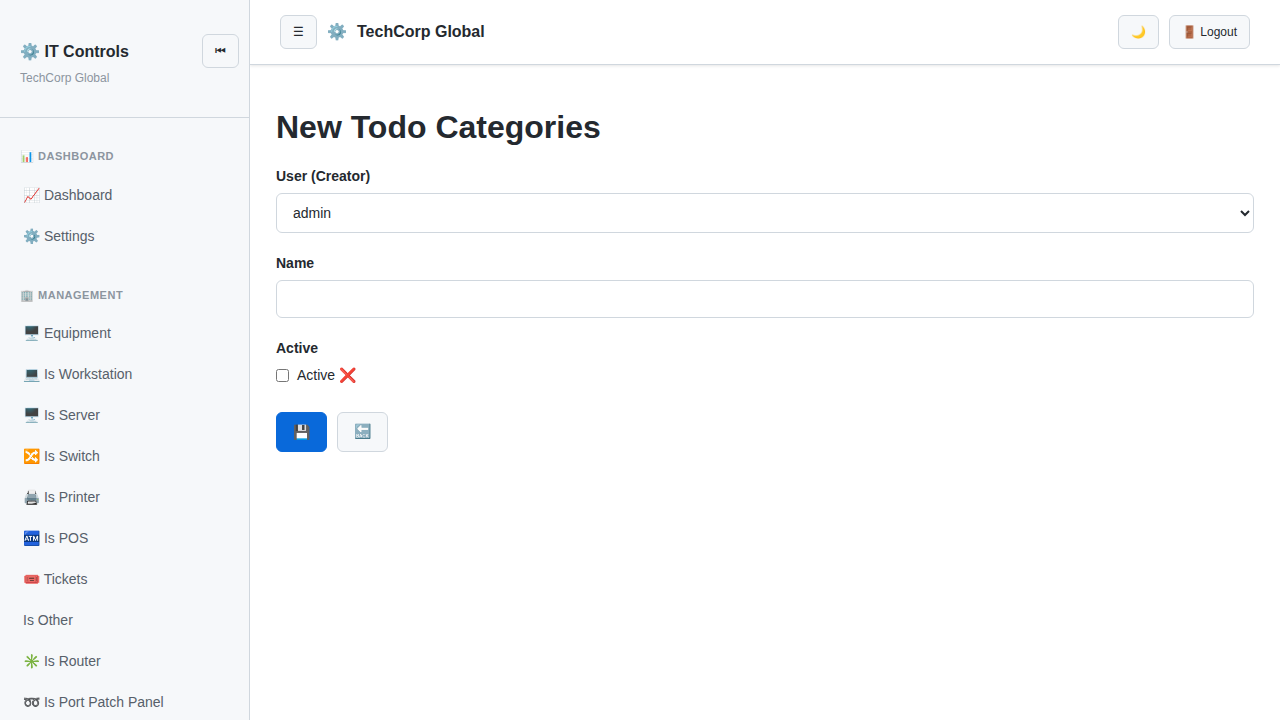
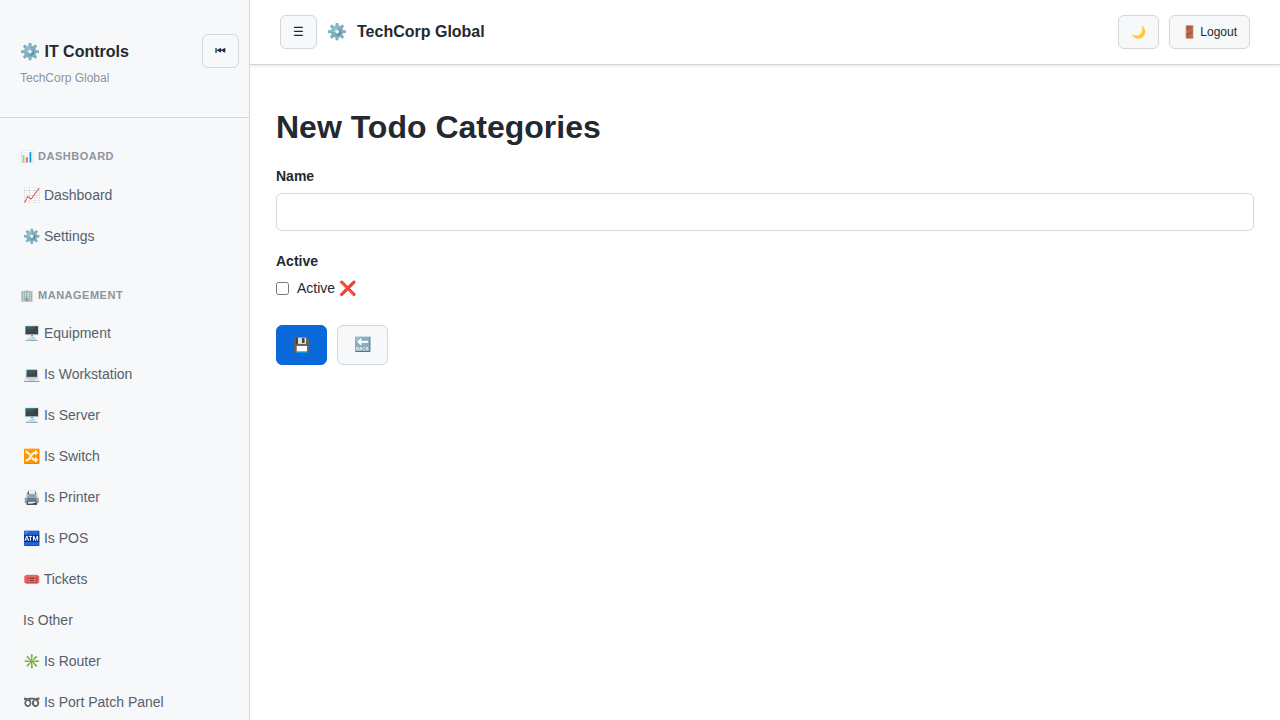
Enhance todo_categories module: auto-detect user and improve UI labels

Changed region(s): [[0.2188, 0.3361, 0.3125, 0.6417], [0.2188, 0.2139, 0.2812, 0.3056]]

diff --git a/login_page.html b/login_page.html
@@ -1,0 +1,63 @@
+<!DOCTYPE html>
+<html lang="en">
+<head>
+    <meta charset="UTF-8">
+    <meta name="viewport" content="width=device-width, initial-scale=1.0">
+    <title>Login - ⚙️ IT Controls</title>
+        <style>
+        :root { --accent: #0969da; --bg: #ffffff; --text: #24292f; --muted: #666; }
+        [data-theme="dark"] { --accent: #58a6ff; --bg: #0d1117; --text: #c9d1d9; --muted: #8b949e; }
+        * { margin: 0; padding: 0; box-sizing: border-box; }
+        body {
+            font-family: -apple-system, BlinkMacSystemFont, 'Segoe UI', Roboto, sans-serif;
+            display: flex; justify-content: center; align-items: center; min-height: 100vh;
+            background: linear-gradient(135deg, #667eea 0%, #764ba2 100%); padding: 20px;
+        }
+        .container { background: var(--bg); padding: 40px; border-radius: 12px; width: 100%; max-width: 500px; box-shadow: 0 20px 60px rgba(0,0,0,0.3); }
+        .logo { text-align: center; margin-bottom: 30px; }
+        .logo h1 { color: var(--accent); font-size: 28px; }
+        .logo p { color: var(--muted); font-size: 14px; }
+        label { display: block; margin-bottom: 8px; font-weight: 600; color: var(--text); }
+        input { width: 100%; padding: 12px; border: 2px solid #ddd; border-radius: 8px; font-size: 14px; background: var(--bg); color: var(--text); margin-bottom: 16px; }
+        button { width: 100%; padding: 12px; background: linear-gradient(135deg, #667eea 0%, #764ba2 100%); color: #fff; border: none; border-radius: 8px; font-weight: 600; cursor: pointer; }
+        .links { margin-top: 14px; text-align: center; }
+        .links a { color: var(--accent); text-decoration: none; }
+        .theme-btn { position: absolute; top: 20px; right: 20px; background: var(--bg); border: none; width: 50px; height: 50px; border-radius: 50%; cursor: pointer; font-size: 24px; box-shadow: 0 2px 8px rgba(0,0,0,0.1); }
+    </style>
+</head>
+<body>
+    <button class="theme-btn" onclick="toggleTheme()">🌙</button>
+    <div class="container">
+        <div class="logo">
+            <h1>⚙️ IT Controls</h1>
+            <p>Sign in to continue</p>
+        </div>
+
+                <form method="POST">
[1 lines of base64/hex data omitted]
+            <label for="email">Email or Username</label>
+            <input id="email" type="text" name="email" placeholder="Email or username" required>
+            <label for="password">Password</label>
+            <input id="password" type="password" name="password" placeholder="Password" required>
+            <button type="submit">Login</button>
+        </form>
+        <div class="links">
+            <a href="forgot-password.php">Forgot Password?</a> ·
+            <a href="register.php">Register with Invite</a>
+        </div>
+    </div>
+    <script>
+        /**
+         * Toggle light/dark theme and persist choice to localStorage
+         */
+        function toggleTheme() {
+            const theme = document.documentElement.getAttribute('data-theme');
+            document.documentElement.setAttribute('data-theme', theme === 'dark' ? 'light' : 'dark');
+            localStorage.setItem('theme', document.documentElement.getAttribute('data-theme'));
+        }
+
+        // Load initial theme from storage
+        document.documentElement.setAttribute('data-theme', localStorage.getItem('theme') || 'light');
+    </script>
+</body>
+</html>

diff --git a/verify_todo_categories.py b/verify_todo_categories.py
@@ -1,0 +1,43 @@
+import asyncio
+from playwright.async_api import async_playwright
+import os
+
+async def run():
+    async with async_playwright() as p:
+        browser = await p.chromium.launch()
+        context = await browser.new_context()
+
+        # Get session ID from bypass_login
+        import subprocess
+        output = subprocess.check_output(['php', 'scripts/bypass_login.php', '--user', 'Admin', '--company', '1']).decode()
+        sess_id = [line for line in output.split('\n') if 'Session ID:' in line][0].split(': ')[1].strip()
+
+        await context.add_cookies([
+            {'name': 'PHPSESSID', 'value': sess_id, 'domain': 'localhost', 'path': '/'}
+        ])
+
+        page = await context.new_page()
+
+        # 1. Check List View
+        await page.goto('http://localhost:8080/modules/todo_categories/index.php')
+        await page.screenshot(path='todo_categories_list.png')
+        print("Captured todo_categories_list.png")
+
+        # 2. Check Create Form
+        await page.goto('http://localhost:8080/modules/todo_categories/create.php')
+        await page.screenshot(path='todo_categories_create.png')
+        print("Captured todo_categories_create.png")
+
+        # Check if Category from User is hidden
+        is_hidden = await page.is_hidden('text="Category from User"')
+        # Note: if it's a hidden input, the label shouldn't even be there because I added 'continue' in the loop
+        label_exists = await page.query_selector('text="Category from User"')
+        print(f"Label 'Category from User' exists in create form: {label_exists is not None}")
+
+        # 3. Check View Page (if there's any record)
+        # For now just screenshots are good to see labels
+
+        await browser.close()
+
+if __name__ == "__main__":
+    asyncio.run(run())

diff --git a/modules/todo_categories/index.php b/modules/todo_categories/index.php
@@ -131,6 +131,7 @@ function cr_humanize_field($field) {
         'opera_username' => 'OPERA Username',
         'onq_ri' => 'OnQ R&I',
         'hu_the_lobby' => 'HU & The Lobby',
+        'cat_from_user_id' => 'Category from User',
     ];
 
     if (isset($map[$label])) {
@@ -163,6 +164,25 @@ function cr_render_cell_value($table, $field, $value) {
         $isActive = ((int)$value === 1);
         return '<span class="badge ' . ($isActive ? 'badge-success' : 'badge-danger') . '">' . ($isActive ? 'Active' : 'Inactive') . '</span>';
     }
+
+    if ($field === 'cat_from_user_id' && $value > 0) {
+        $conn = $GLOBALS['conn'] ?? null;
+        if ($conn) {
+            $stmt = mysqli_prepare($conn, 'SELECT username FROM users WHERE id = ?');
+            if ($stmt) {
+                mysqli_stmt_bind_param($stmt, 'i', $value);
+                mysqli_stmt_execute($stmt);
+                mysqli_stmt_bind_result($stmt, $username);
+                if (mysqli_stmt_fetch($stmt)) {
+                    mysqli_stmt_close($stmt);
+                    return sanitize($username);
+                }
+                mysqli_stmt_close($stmt);
+            }
+        }
+    }
+
+
 
     if (($GLOBALS['crud_table'] ?? '') === 'employees') {
         $employeeBoolFields = ['network_access', 'micros_emc', 'opera_username', 'micros_card', 'pms_id', 'synergy_mms', 'hu_the_lobby', 'navision', 'onq_ri', 'birchstreet', 'delphi', 'omina', 'vingcard_system', 'digital_rev', 'office_key_card'];
@@ -896,6 +916,14 @@ if (!in_array($newButtonPosition, ['left', 'right', 'left_right'], true)) {
                 <form method="POST" class="form-grid" style="max-width:980px;">
                     <input type="hidden" name="csrf_token" value="<?php echo sanitize($csrfToken); ?>">
                     <?php foreach ($fieldColumns as $col): $name = $col['Field'];
+                        if ($name === 'cat_from_user_id') {
+                            $val = (string)($data[$name] ?? '');
+                            if ($crud_action === 'create') {
+                                $val = (string)($_SESSION['user_id'] ?? '');
+                            }
+                            echo '<input type="hidden" name="cat_from_user_id" value="' . sanitize($val) . '">';
+                            continue;
+                        }
                         $isTinyInt = str_starts_with($col['Type'], 'tinyint(1)');
                         $isDate = str_starts_with($col['Type'], 'date');
                         $isDateTime = str_starts_with($col['Type'], 'datetime');

diff --git a/modules/todo_categories/create.php b/modules/todo_categories/create.php
@@ -108,7 +108,7 @@ function cr_humanize_field($field) {
         'opera_username' => 'OPERA Username',
         'onq_ri' => 'OnQ R&I',
         'hu_the_lobby' => 'HU & The Lobby',
-        'cat_from_user_id' => 'User (Creator)',
+        'cat_from_user_id' => 'Category from User',
     ];
 
     if (isset($map[$label])) {
@@ -134,6 +134,23 @@ function cr_is_hidden_employee_field($field) {
 }
 
 function cr_render_cell_value($table, $field, $value) {
+    if ($field === 'cat_from_user_id' && $value > 0) {
+        $conn = $GLOBALS['conn'] ?? null;
+        if ($conn) {
+            $stmt = mysqli_prepare($conn, 'SELECT username FROM users WHERE id = ?');
+            if ($stmt) {
+                mysqli_stmt_bind_param($stmt, 'i', $value);
+                mysqli_stmt_execute($stmt);
+                mysqli_stmt_bind_result($stmt, $username);
+                if (mysqli_stmt_fetch($stmt)) {
+                    mysqli_stmt_close($stmt);
+                    return sanitize($username);
+                }
+                mysqli_stmt_close($stmt);
+            }
+        }
+    }
+
     if (($GLOBALS['crud_table'] ?? '') === 'employees') {
         $employeeBoolFields = ['active', 'network_access', 'micros_emc', 'opera_username', 'micros_card', 'pms_id', 'synergy_mms', 'hu_the_lobby', 'navision', 'onq_ri', 'birchstreet', 'delphi', 'omina', 'vingcard_system', 'digital_rev', 'office_key_card'];
         if (in_array($field, $employeeBoolFields, true)) {
@@ -534,6 +551,14 @@ $rows = mysqli_query($conn, 'SELECT * FROM ' . cr_escape_identifier($crud_table)
                 <form method="POST" class="form-grid" style="max-width:980px;">
                     <input type="hidden" name="csrf_token" value="<?php echo sanitize($csrfToken); ?>">
                     <?php foreach ($fieldColumns as $col): $name = $col['Field'];
+                        if ($name === 'cat_from_user_id') {
+                            $val = (string)($data[$name] ?? '');
+                            if ($crud_action === 'create') {
+                                $val = (string)($_SESSION['user_id'] ?? '');
+                            }
+                            echo '<input type="hidden" name="cat_from_user_id" value="' . sanitize($val) . '">';
+                            continue;
+                        }
                         $isTinyInt = str_starts_with($col['Type'], 'tinyint(1)');
                         $isDate = str_starts_with($col['Type'], 'date');
                         $isDateTime = str_starts_with($col['Type'], 'datetime');

diff --git a/modules/todo_categories/edit.php b/modules/todo_categories/edit.php
@@ -108,7 +108,7 @@ function cr_humanize_field($field) {
         'opera_username' => 'OPERA Username',
         'onq_ri' => 'OnQ R&I',
         'hu_the_lobby' => 'HU & The Lobby',
-        'cat_from_user_id' => 'User (Creator)',
+        'cat_from_user_id' => 'Category from User',
     ];
 
     if (isset($map[$label])) {
@@ -134,6 +134,23 @@ function cr_is_hidden_employee_field($field) {
 }
 
 function cr_render_cell_value($table, $field, $value) {
+    if ($field === 'cat_from_user_id' && $value > 0) {
+        $conn = $GLOBALS['conn'] ?? null;
+        if ($conn) {
+            $stmt = mysqli_prepare($conn, 'SELECT username FROM users WHERE id = ?');
+            if ($stmt) {
+                mysqli_stmt_bind_param($stmt, 'i', $value);
+                mysqli_stmt_execute($stmt);
+                mysqli_stmt_bind_result($stmt, $username);
+                if (mysqli_stmt_fetch($stmt)) {
+                    mysqli_stmt_close($stmt);
+                    return sanitize($username);
+                }
+                mysqli_stmt_close($stmt);
+            }
+        }
+    }
+
     if (($GLOBALS['crud_table'] ?? '') === 'employees') {
         $employeeBoolFields = ['active', 'network_access', 'micros_emc', 'opera_username', 'micros_card', 'pms_id', 'synergy_mms', 'hu_the_lobby', 'navision', 'onq_ri', 'birchstreet', 'delphi', 'omina', 'vingcard_system', 'digital_rev', 'office_key_card'];
         if (in_array($field, $employeeBoolFields, true)) {
@@ -531,6 +548,14 @@ $rows = mysqli_query($conn, 'SELECT * FROM ' . cr_escape_identifier($crud_table)
                 <form method="POST" class="form-grid" style="max-width:980px;">
                     <input type="hidden" name="csrf_token" value="<?php echo sanitize($csrfToken); ?>">
                     <?php foreach ($fieldColumns as $col): $name = $col['Field'];
+                        if ($name === 'cat_from_user_id') {
+                            $val = (string)($data[$name] ?? '');
+                            if ($crud_action === 'create') {
+                                $val = (string)($_SESSION['user_id'] ?? '');
+                            }
+                            echo '<input type="hidden" name="cat_from_user_id" value="' . sanitize($val) . '">';
+                            continue;
+                        }
                         $isTinyInt = str_starts_with($col['Type'], 'tinyint(1)');
                         $isDate = str_starts_with($col['Type'], 'date');
                         $isDateTime = str_starts_with($col['Type'], 'datetime');

diff --git a/modules/todo_categories/delete.php b/modules/todo_categories/delete.php
@@ -108,6 +108,7 @@ function cr_humanize_field($field) {
         'opera_username' => 'OPERA Username',
         'onq_ri' => 'OnQ R&I',
         'hu_the_lobby' => 'HU & The Lobby',
+        'cat_from_user_id' => 'Category from User',
     ];
 
     if (isset($map[$label])) {
@@ -133,6 +134,23 @@ function cr_is_hidden_employee_field($field) {
 }
 
 function cr_render_cell_value($table, $field, $value) {
+    if ($field === 'cat_from_user_id' && $value > 0) {
+        $conn = $GLOBALS['conn'] ?? null;
+        if ($conn) {
+            $stmt = mysqli_prepare($conn, 'SELECT username FROM users WHERE id = ?');
+            if ($stmt) {
+                mysqli_stmt_bind_param($stmt, 'i', $value);
+                mysqli_stmt_execute($stmt);
+                mysqli_stmt_bind_result($stmt, $username);
+                if (mysqli_stmt_fetch($stmt)) {
+                    mysqli_stmt_close($stmt);
+                    return sanitize($username);
+                }
+                mysqli_stmt_close($stmt);
+            }
+        }
+    }
+
     if (($GLOBALS['crud_table'] ?? '') === 'employees') {
         $employeeBoolFields = ['active', 'network_access', 'micros_emc', 'opera_username', 'micros_card', 'pms_id', 'synergy_mms', 'hu_the_lobby', 'navision', 'onq_ri', 'birchstreet', 'delphi', 'omina', 'vingcard_system', 'digital_rev', 'office_key_card'];
         if (in_array($field, $employeeBoolFields, true)) {
@@ -583,6 +601,14 @@ $rows = mysqli_query($conn, 'SELECT * FROM ' . cr_escape_identifier($crud_table)
                 <form method="POST" class="form-grid" style="max-width:980px;">
                     <input type="hidden" name="csrf_token" value="<?php echo sanitize($csrfToken); ?>">
                     <?php foreach ($fieldColumns as $col): $name = $col['Field'];
+                        if ($name === 'cat_from_user_id') {
+                            $val = (string)($data[$name] ?? '');
+                            if ($crud_action === 'create') {
+                                $val = (string)($_SESSION['user_id'] ?? '');
+                            }
+                            echo '<input type="hidden" name="cat_from_user_id" value="' . sanitize($val) . '">';
+                            continue;
+                        }
                         $isTinyInt = str_starts_with($col['Type'], 'tinyint(1)');
                         $isDate = str_starts_with($col['Type'], 'date');
                         $isDateTime = str_starts_with($col['Type'], 'datetime');

diff --git a/modules/todo_categories/list_all.php b/modules/todo_categories/list_all.php
@@ -108,6 +108,7 @@ function cr_humanize_field($field) {
         'opera_username' => 'OPERA Username',
         'onq_ri' => 'OnQ R&I',
         'hu_the_lobby' => 'HU & The Lobby',
+        'cat_from_user_id' => 'Category from User',
     ];
 
     if (isset($map[$label])) {
@@ -133,6 +134,23 @@ function cr_is_hidden_employee_field($field) {
 }
 
 function cr_render_cell_value($table, $field, $value) {
+    if ($field === 'cat_from_user_id' && $value > 0) {
+        $conn = $GLOBALS['conn'] ?? null;
+        if ($conn) {
+            $stmt = mysqli_prepare($conn, 'SELECT username FROM users WHERE id = ?');
+            if ($stmt) {
+                mysqli_stmt_bind_param($stmt, 'i', $value);
+                mysqli_stmt_execute($stmt);
+                mysqli_stmt_bind_result($stmt, $username);
+                if (mysqli_stmt_fetch($stmt)) {
+                    mysqli_stmt_close($stmt);
+                    return sanitize($username);
+                }
+                mysqli_stmt_close($stmt);
+            }
+        }
+    }
+
     if (($GLOBALS['crud_table'] ?? '') === 'employees') {
         $employeeBoolFields = ['active', 'network_access', 'micros_emc', 'opera_username', 'micros_card', 'pms_id', 'synergy_mms', 'hu_the_lobby', 'navision', 'onq_ri', 'birchstreet', 'delphi', 'omina', 'vingcard_system', 'digital_rev', 'office_key_card'];
         if (in_array($field, $employeeBoolFields, true)) {
@@ -530,6 +548,14 @@ $rows = mysqli_query($conn, 'SELECT * FROM ' . cr_escape_identifier($crud_table)
                 <form method="POST" class="form-grid" style="max-width:980px;">
                     <input type="hidden" name="csrf_token" value="<?php echo sanitize($csrfToken); ?>">
                     <?php foreach ($fieldColumns as $col): $name = $col['Field'];
+                        if ($name === 'cat_from_user_id') {
+                            $val = (string)($data[$name] ?? '');
+                            if ($crud_action === 'create') {
+                                $val = (string)($_SESSION['user_id'] ?? '');
+                            }
+                            echo '<input type="hidden" name="cat_from_user_id" value="' . sanitize($val) . '">';
+                            continue;
+                        }
                         $isTinyInt = str_starts_with($col['Type'], 'tinyint(1)');
                         $isDate = str_starts_with($col['Type'], 'date');
                         $isDateTime = str_starts_with($col['Type'], 'datetime');

diff --git a/modules/todo_categories/view.php b/modules/todo_categories/view.php
@@ -108,6 +108,7 @@ function cr_humanize_field($field) {
         'opera_username' => 'OPERA Username',
         'onq_ri' => 'OnQ R&I',
         'hu_the_lobby' => 'HU & The Lobby',
+        'cat_from_user_id' => 'Category from User',
     ];
 
     if (isset($map[$label])) {
@@ -133,6 +134,23 @@ function cr_is_hidden_employee_field($field) {
 }
 
 function cr_render_cell_value($table, $field, $value) {
+    if ($field === 'cat_from_user_id' && $value > 0) {
+        $conn = $GLOBALS['conn'] ?? null;
+        if ($conn) {
+            $stmt = mysqli_prepare($conn, 'SELECT username FROM users WHERE id = ?');
+            if ($stmt) {
+                mysqli_stmt_bind_param($stmt, 'i', $value);
+                mysqli_stmt_execute($stmt);
+                mysqli_stmt_bind_result($stmt, $username);
+                if (mysqli_stmt_fetch($stmt)) {
+                    mysqli_stmt_close($stmt);
+                    return sanitize($username);
+                }
+                mysqli_stmt_close($stmt);
+            }
+        }
+    }
+
     if (($GLOBALS['crud_table'] ?? '') === 'employees') {
         $employeeBoolFields = ['active', 'network_access', 'micros_emc', 'opera_username', 'micros_card', 'pms_id', 'synergy_mms', 'hu_the_lobby', 'navision', 'onq_ri', 'birchstreet', 'delphi', 'omina', 'vingcard_system', 'digital_rev', 'office_key_card'];
         if (in_array($field, $employeeBoolFields, true)) {
@@ -530,6 +548,14 @@ $rows = mysqli_query($conn, 'SELECT * FROM ' . cr_escape_identifier($crud_table)
                 <form method="POST" class="form-grid" style="max-width:980px;">
                     <input type="hidden" name="csrf_token" value="<?php echo sanitize($csrfToken); ?>">
                     <?php foreach ($fieldColumns as $col): $name = $col['Field'];
+                        if ($name === 'cat_from_user_id') {
+                            $val = (string)($data[$name] ?? '');
+                            if ($crud_action === 'create') {
+                                $val = (string)($_SESSION['user_id'] ?? '');
+                            }
+                            echo '<input type="hidden" name="cat_from_user_id" value="' . sanitize($val) . '">';
+                            continue;
+                        }
                         $isTinyInt = str_starts_with($col['Type'], 'tinyint(1)');
                         $isDate = str_starts_with($col['Type'], 'date');
                         $isDateTime = str_starts_with($col['Type'], 'datetime');